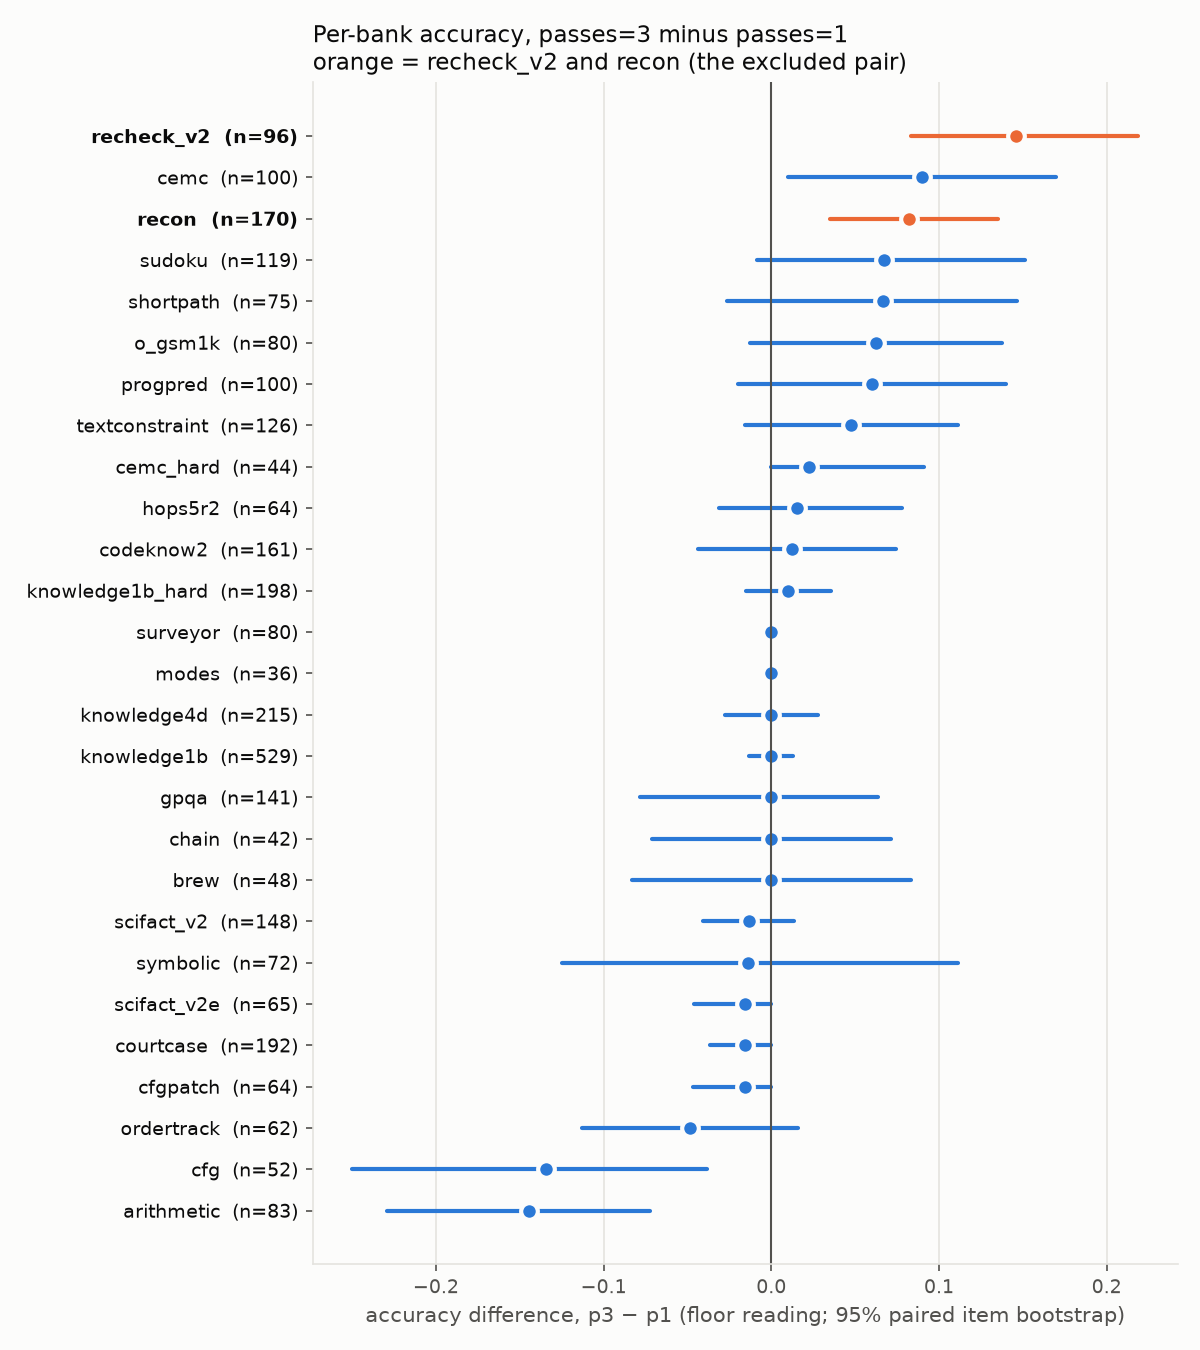
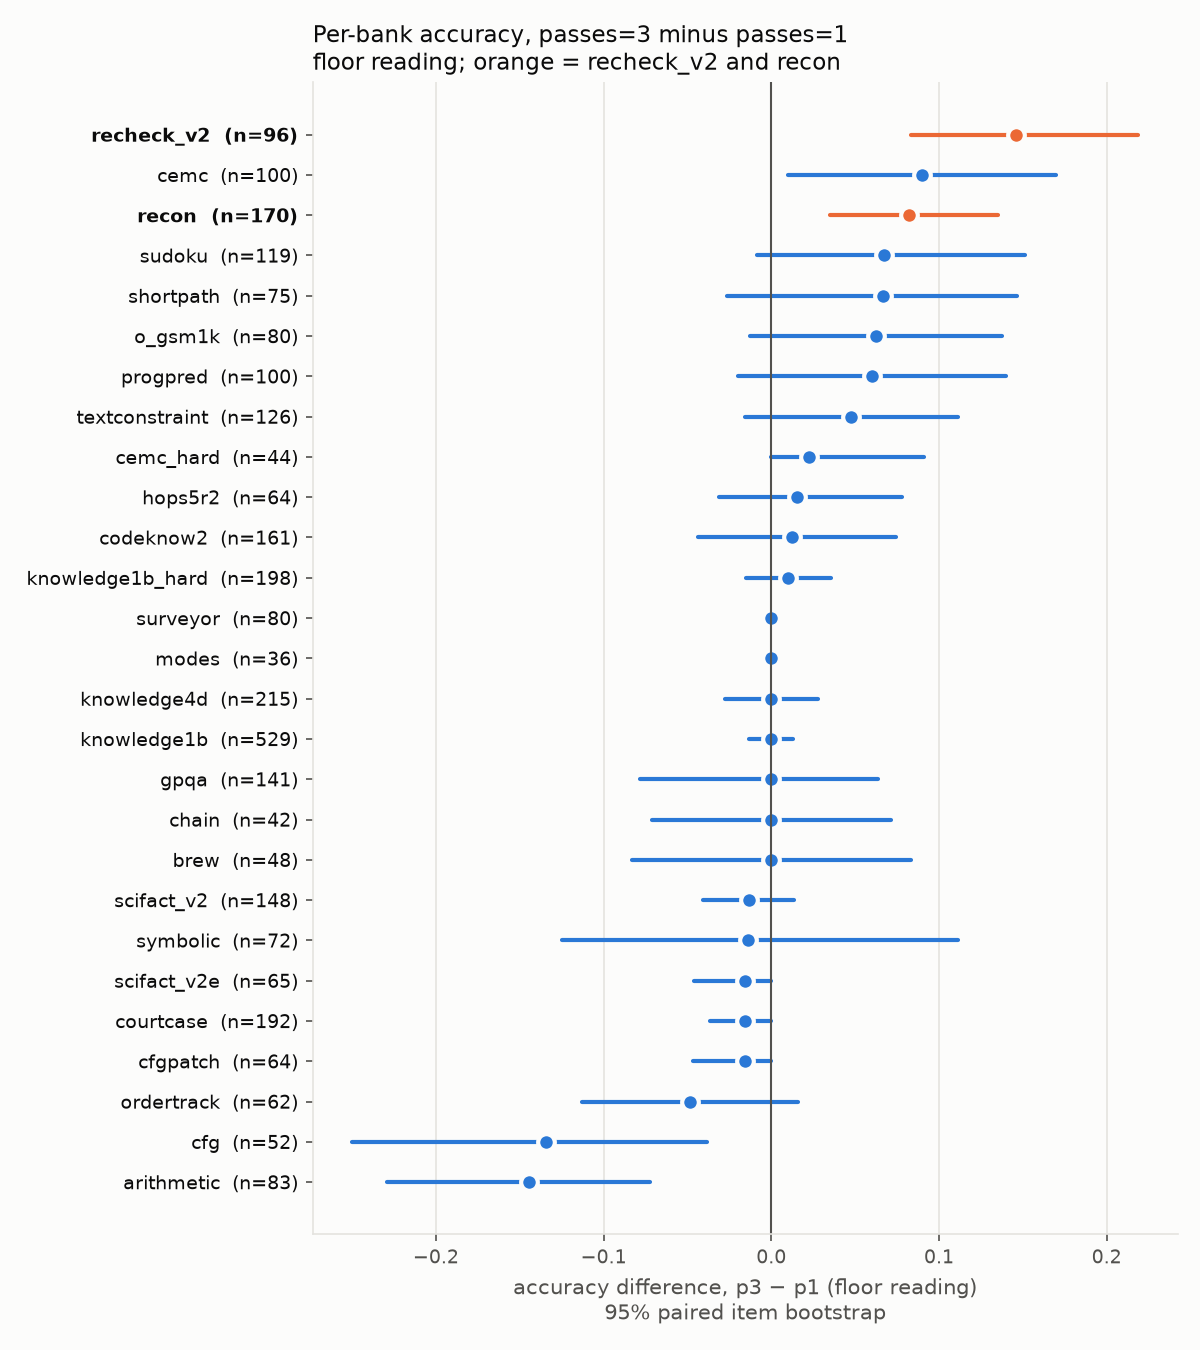
complete run

diff --git a/varloop/analyse.py b/varloop/analyse.py
@@ -62,6 +62,46 @@ class GradedSetting:
         self.rungs = rungs_from_rows(self.paths)[0]
         self.ceiling_rungs = rungs_from_rows(self._write_valid_only())[0]
         self.ncri_banks = sorted({key.split(":")[0] for key in self.rungs})
+        self.n_regraded = 0
+        self.n_regraded_unparseable = 0
+        self.answer_first_rows_by_bank = {}
+        self.answer_first_rungs = rungs_from_rows(self._write_answer_first())[0]
+
+    def _write_answer_first(self):
+        """SUPPLEMENTARY reading. A 'reasoned' row holds a bare answer in its
+        content, written before the model opened its thinking block. Here
+        that answer is graded with the repository's own grader. Every other
+        row (valid, content-CoT loops, empty) keeps its official score."""
+        directory = os.path.join(PLACEMENT_DIR, "answer_first_rows",
+                                 f"{self.setting}_d{self.draw}")
+        os.makedirs(directory, exist_ok=True)
+        paths = []
+        for path in self.paths:
+            bank = os.path.basename(path).split("__")[1].replace(".graded.jsonl", "")
+            rows = self.rows_by_bank.get(bank, [])
+            items = {}
+            if any(r.get("reason") == "reasoned" for r in rows):
+                _shots, evals = G.load_bank(bank, G.DATA)
+                items = {str(e.get("problem_number")): e for e in evals}
+            new_rows = []
+            for row in rows:
+                row = dict(row)
+                if row.get("scorable") and row.get("reason") == "reasoned":
+                    item = items[str(row["problem_number"])]
+                    result = G.grade(row.get("raw_text") or "", item, bank)
+                    row["correct"] = bool(result["is_correct"])
+                    row["answer_first_regraded"] = True
+                    self.n_regraded += 1
+                    if result["predicted"] is None:
+                        self.n_regraded_unparseable += 1
+                new_rows.append(row)
+            self.answer_first_rows_by_bank[bank] = new_rows
+            out_path = os.path.join(directory, os.path.basename(path))
+            with open(out_path, "w") as dst:
+                for row in new_rows:
+                    dst.write(json.dumps(row, ensure_ascii=False) + "\n")
+            paths.append(out_path)
+        return paths
 
     def _write_valid_only(self):
         """Copies of the graded files holding only VALID rows, for the
@@ -139,16 +179,21 @@ class ResultsTable:
 
     def add(self, graded):
         excluded = graded.excluded_banks()
-        bases = {"place_py": (graded.rungs, graded.ceiling_rungs),
+        bases = {"place_py": (graded.rungs, graded.ceiling_rungs,
+                              graded.answer_first_rungs),
                  "a101": (drop_banks(graded.rungs, excluded),
-                          drop_banks(graded.ceiling_rungs, excluded))}
-        for basis, (rungs, ceiling_rungs) in bases.items():
+                          drop_banks(graded.ceiling_rungs, excluded),
+                          drop_banks(graded.answer_first_rungs, excluded))}
+        for basis, (rungs, ceiling_rungs, af_rungs) in bases.items():
             name = f"{graded.setting}_d{graded.draw}_{basis}"
             full = self.placer.place(rungs, name + "_all")
             subset = self.placer.place(drop_banks(rungs, SUBSET_DROP), name + "_excl")
             ceil_full = self.placer.place(ceiling_rungs, name + "_all_ceiling")
             ceil_subset = self.placer.place(drop_banks(ceiling_rungs, SUBSET_DROP),
                                             name + "_excl_ceiling")
+            af_full = self.placer.place(af_rungs, name + "_all_answer_first")
+            af_subset = self.placer.place(drop_banks(af_rungs, SUBSET_DROP),
+                                          name + "_excl_answer_first")
             self.rows.append({
                 "setting": graded.setting, "draw": graded.draw, "basis": basis,
                 "ncri_all": round(full["ncri"], 2),
@@ -159,6 +204,13 @@ class ResultsTable:
                 "ci_ceil_all": f"[{ceil_full['lo']:.2f}, {ceil_full['hi']:.2f}]",
                 "ncri_ceil_excl": round(ceil_subset["ncri"], 2),
                 "ci_ceil_excl": f"[{ceil_subset['lo']:.2f}, {ceil_subset['hi']:.2f}]",
+                # Supplementary answer-first reading (not an official NCRI).
+                "ncri_af_all": round(af_full["ncri"], 2),
+                "ci_af_all": f"[{af_full['lo']:.2f}, {af_full['hi']:.2f}]",
+                "ncri_af_excl": round(af_subset["ncri"], 2),
+                "ci_af_excl": f"[{af_subset['lo']:.2f}, {af_subset['hi']:.2f}]",
+                "af_rows_regraded": graded.n_regraded,
+                "af_rows_unparseable": graded.n_regraded_unparseable,
                 "domains_all": full["domains"], "domains_excl": subset["domains"],
                 "ranked_all": full["ranked"], "ranked_excl": subset["ranked"],
                 "invalid_pct": round(graded.invalid_percent(), 1),
@@ -188,6 +240,8 @@ class BankComparison:
         self.graded_p1 = graded_p1
         self.graded_p3 = graded_p3
         self.rng = np.random.default_rng(SEED)
+        # Separate stream, so the floor intervals stay as published.
+        self.rng_af = np.random.default_rng(SEED + 1)
 
     @staticmethod
     def correct_by_item(rows):
@@ -195,22 +249,35 @@ class BankComparison:
         return {str(r["problem_number"]): bool(r["correct"])
                 for r in rows if r.get("scorable")}
 
-    def compare(self, bank):
-        a = self.correct_by_item(self.graded_p1.rows_by_bank[bank])
-        b = self.correct_by_item(self.graded_p3.rows_by_bank[bank])
+    def paired(self, rows_p1, rows_p3, rng):
+        """Mean accuracy at each setting and a paired item-bootstrap CI of the
+        difference p3 - p1."""
+        a = self.correct_by_item(rows_p1)
+        b = self.correct_by_item(rows_p3)
         items = sorted(set(a) & set(b))
         x = np.array([a[i] for i in items], dtype=float)
         y = np.array([b[i] for i in items], dtype=float)
-        picks = self.rng.integers(0, len(items), size=(BOOTSTRAP, len(items)))
+        picks = rng.integers(0, len(items), size=(BOOTSTRAP, len(items)))
         diffs = y[picks].mean(axis=1) - x[picks].mean(axis=1)
         lo, hi = np.percentile(diffs, [2.5, 97.5])
+        return len(items), x.mean(), y.mean(), lo, hi
+
+    def compare(self, bank):
+        n, acc1, acc3, lo, hi = self.paired(self.graded_p1.rows_by_bank[bank],
+                                            self.graded_p3.rows_by_bank[bank], self.rng)
+        _n, af1, af3, af_lo, af_hi = self.paired(
+            self.graded_p1.answer_first_rows_by_bank[bank],
+            self.graded_p3.answer_first_rows_by_bank[bank], self.rng_af)
         return {
             "bank": bank,
             "kind": "ncri" if bank in self.graded_p1.ncri_banks else "knowledge",
-            "n": len(items),
-            "acc_p1": round(x.mean(), 4), "acc_p3": round(y.mean(), 4),
-            "diff": round(y.mean() - x.mean(), 4),
+            "n": n,
+            "acc_p1": round(acc1, 4), "acc_p3": round(acc3, 4),
+            "diff": round(acc3 - acc1, 4),
             "ci_lo": round(lo, 4), "ci_hi": round(hi, 4),
+            "af_p1": round(af1, 4), "af_p3": round(af3, 4),
+            "af_diff": round(af3 - af1, 4),
+            "af_ci_lo": round(af_lo, 4), "af_ci_hi": round(af_hi, 4),
             "ceil_p1": self.ceiling(self.graded_p1, bank),
             "ceil_p3": self.ceiling(self.graded_p3, bank),
             "invalid_pct_p1": round(100 * self.graded_p1.bank_summary(bank)["nonvalid_fraction"], 1),
@@ -240,15 +307,17 @@ class Figures:
             ax.spines[side].set_color(GRID)
         ax.tick_params(colors=INK_2, labelsize=9)
 
-    def fig1(self, bank_rows, path):
-        rows = sorted(bank_rows, key=lambda r: r["diff"])
+    def fig1(self, bank_rows, path, prefix="", reading="floor reading"):
+        """prefix '' plots the floor columns; 'af_' the answer-first ones."""
+        diff, lo_key, hi_key = prefix + "diff", prefix + "ci_lo", prefix + "ci_hi"
+        rows = sorted(bank_rows, key=lambda r: r[diff])
         fig, ax = plt.subplots(figsize=(8, 9), facecolor=SURFACE)
         self._style(ax)
         for i, r in enumerate(rows):
             color = ORANGE if r["bank"] in SUBSET_DROP else BLUE
-            ax.plot([r["ci_lo"], r["ci_hi"]], [i, i], color=color, lw=2,
+            ax.plot([r[lo_key], r[hi_key]], [i, i], color=color, lw=2,
                     solid_capstyle="round")
-            ax.plot(r["diff"], i, "o", ms=8, color=color, mec=SURFACE, mew=2)
+            ax.plot(r[diff], i, "o", ms=8, color=color, mec=SURFACE, mew=2)
         ax.axvline(0, color=INK_2, lw=1)
         ax.set_yticks(range(len(rows)))
         ax.set_yticklabels([f"{r['bank']}  (n={r['n']})" for r in rows], color=INK)
@@ -256,10 +325,10 @@ class Figures:
             if r["bank"] in SUBSET_DROP:
                 label.set_fontweight("bold")
         ax.grid(axis="x", color=GRID, lw=0.8)
-        ax.set_xlabel("accuracy difference, p3 − p1 (floor reading; 95% paired item bootstrap)",
-                      color=INK_2)
-        ax.set_title("Per-bank accuracy, passes=3 minus passes=1\n"
-                     "orange = recheck_v2 and recon (the excluded pair)",
+        ax.set_xlabel(f"accuracy difference, p3 − p1 ({reading})\n"
+                      "95% paired item bootstrap", color=INK_2)
+        ax.set_title(f"Per-bank accuracy, passes=3 minus passes=1\n"
+                     f"{reading}; orange = recheck_v2 and recon",
                      color=INK, fontsize=11, loc="left")
         fig.tight_layout()
         fig.savefig(path, dpi=150)
@@ -318,6 +387,8 @@ def main():
 
     figures = Figures()
     figures.fig1(bank_rows, os.path.join(OUT_DIR, "fig1.png"))
+    figures.fig1(bank_rows, os.path.join(OUT_DIR, "fig1_answer_first.png"),
+                 prefix="af_", reading="answer-first, supplementary")
     figures.fig2(results, os.path.join(OUT_DIR, "fig2.png"))
     for row in results.rows:
         print({k: v for k, v in row.items() if not k.startswith("_")})

diff --git a/varloop/notes.md b/varloop/notes.md
@@ -112,6 +112,31 @@ The floor reading, p3 − p1, with a paired item bootstrap (1000 draws):
 
 The two banks the plan names are the largest and third-largest positive moves, and both intervals exclude 0. The negative moves in arithmetic and cfg come mostly from p3 thinking after the answer more often, not from wrong answers: arithmetic is 71% → 93% non-valid, cfg 0% → 71%. Per-bank non-valid % at each setting is in `banks.csv`.
 
+## Answer-first reading (SUPPLEMENTARY — not an official NCRI)
+
+**Rule.** A "reasoned" row has a bare answer in its content, written before the model opened its thinking block. So that answer is a no-CoT answer, and the answer-first reading grades it.
+- **What changes:** only rows with `reason == "reasoned"`. They are re-graded on `raw_text` with the repository's own grader (`nocot.grade.grade`).
+- **What stays:** valid rows, content-CoT rows (the p3 repetition loops), empty rows and transport rows keep their official score.
+- **Placement:** the same as the floor and ceiling, through `rungs_from_rows` and `place --rungs`, bootstrap 1000.
+- **Unchanged:** the official floor and ceiling are not modified (checked: all earlier columns of `results.csv` and `banks.csv` are byte-identical).
+- **Location:** rows under `placement/answer_first_rows/`; columns `ncri_af_*` and `af_*`; figure `fig1_answer_first.png`.
+- **Re-graded rows:** p1 496 / 509 (draws 1 / 2), of which 23 / 28 have an unparseable answer. p3 759 / 743, of which 43 / 45 are unparseable.
+
+| `place.py` basis | draw | p1 | p3 | gap, all domains | gap, excl. recheck_v2 + recon |
+|---|---|---|---|---|---|
+| answer-first | 1 | 46.5 [42.4, 50.1] | 55.4 [51.5, 58.9] | **+8.9** | **+5.0** (48.6 → 53.7) |
+| answer-first | 2 | 45.4 [40.7, 49.1] | 54.5 [50.7, 58.1] | **+9.1** | **+4.0** (48.3 → 52.4) |
+| floor (official) | 1 / 2 | | | +5.9 / +11.5 | +1.4 / +5.1 |
+| ceiling (official) | 1 / 2 | | | +11.3 / +14.6 | +6.7 / +8.2 |
+
+- **Stability.** The answer-first reading is more stable between draws than the floor. Its gap changes by 0.2 points (all domains) and 1.0 point (excl.), against 5.6 and 3.7 for the floor. The floor noise came mostly from the number of reasoned rows changing between draws (cemc at p1: 25 → 49).
+- **Gap without the two banks.** It is +4.0 to +5.0 at both draws. That is larger than the draw-to-draw change, but smaller than the width of each setting's own item interval (about ±4). No interval was computed on the gap itself.
+- **Per bank, banks other than the two where the interval excludes 0:** shortpath +0.133, o_gsm1k +0.113, textconstraint +0.087 and cfgpatch +0.062.
+  - Under the floor, these four were hidden by p3's higher invalid rate. For example, shortpath has 30 invalid rows at p3 and 0 at p1.
+  - Arithmetic is still worse at p3 (−0.108 [−0.181, −0.036]).
+  - cfg (−0.058) and brew (−0.062) are no longer significant.
+- **Reading.** The two banks are the largest per-bank gains, but the gain is not only in them. Under this reading, about half of the all-domains NCRI gap remains without them.
+
 ## Deviations from AGENTS.md and the plan
 
 1. **The SGLang serving stack is patched** (v1 + v2, above). No repo code beyond the `run.py` local-endpoint patch.
